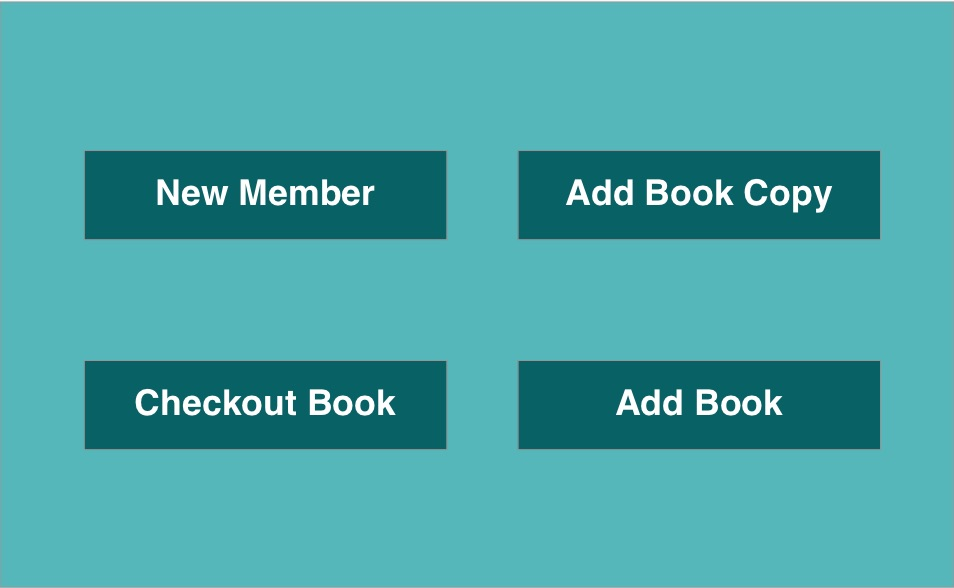
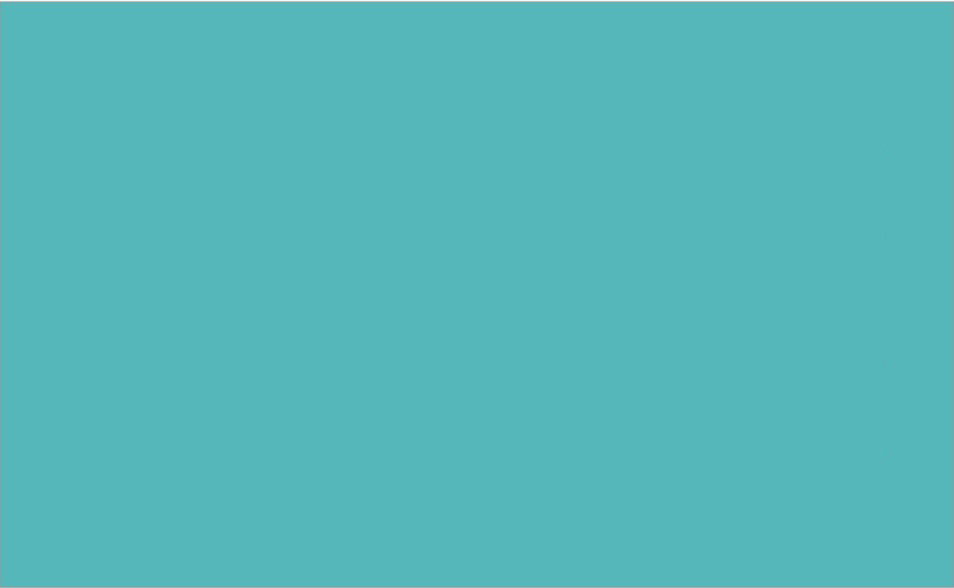
Role changes; Add member screen continue

diff --git a/src/group3/lms/ui/AddMemberScreenController.java b/src/group3/lms/ui/AddMemberScreenController.java
@@ -2,11 +2,15 @@ package group3.lms.ui;
 
 import java.util.Optional;
 
+import group3.lms.business.entity.User;
 import group3.lms.common.Common;
 import group3.lms.common.Messages;
+import group3.lms.ui.scene.SceneFactory;
 import javafx.event.ActionEvent;
 import javafx.fxml.FXML;
 import javafx.scene.control.Alert.AlertType;
+import javafx.stage.Stage;
+import javafx.scene.Node;
 import javafx.scene.control.Button;
 import javafx.scene.control.ButtonType;
 import javafx.scene.control.TextField;
@@ -16,6 +20,8 @@ public class AddMemberScreenController {
 	private Button btnNew;
 	@FXML
 	private Button btnSave;
+	@FXML
+	private Button btnCancel;
 	@FXML
 	private TextField txtMemberID;
 	@FXML
@@ -34,53 +40,37 @@ public class AddMemberScreenController {
 	private TextField txtPhone;
 
 	public void clickSave(ActionEvent event) {
-		if (txtMemberID.getText() == null || txtMemberID.getText().equals(""))
-		{
+		if (txtMemberID.getText() == null || txtMemberID.getText().equals("")) {
 			Common.ShowMessage(AlertType.INFORMATION, "Member ID is not allowed empty!");
 			txtMemberID.requestFocus();
-		}
-		else if (txtFName.getText() == null || txtFName.getText().equals(""))
-		{
+		} else if (txtFName.getText() == null || txtFName.getText().equals("")) {
 			Common.ShowMessage(AlertType.INFORMATION, "First Name is not allowed empty!");
 			txtFName.requestFocus();
-		}
-		else if (txtLName.getText() == null || txtLName.getText().equals(""))
-		{
+		} else if (txtLName.getText() == null || txtLName.getText().equals("")) {
 			Common.ShowMessage(AlertType.INFORMATION, "Last Name is not allowed empty!");
 			txtLName.requestFocus();
-		}
-		else if (txtStreet.getText() == null || txtStreet.getText().equals(""))
-		{
+		} else if (txtStreet.getText() == null || txtStreet.getText().equals("")) {
 			Common.ShowMessage(AlertType.INFORMATION, "Street is not allowed empty!");
 			txtStreet.requestFocus();
-		}
-		else if (txtCity.getText() == null || txtCity.getText().equals(""))
-		{
+		} else if (txtCity.getText() == null || txtCity.getText().equals("")) {
 			Common.ShowMessage(AlertType.INFORMATION, "City is not allowed empty!");
 			txtCity.requestFocus();
-		}
-		else if (txtState.getText() == null || txtState.getText().equals(""))
-		{
+		} else if (txtState.getText() == null || txtState.getText().equals("")) {
 			Common.ShowMessage(AlertType.INFORMATION, "State is not allowed empty!");
 			txtState.requestFocus();
-		}
-		else if (txtZip.getText() == null || txtZip.getText().equals(""))
-		{
+		} else if (txtZip.getText() == null || txtZip.getText().equals("")) {
 			Common.ShowMessage(AlertType.INFORMATION, "Zip is not allowed empty!");
 			txtZip.requestFocus();
-		}
-		else if (txtPhone.getText() == null || txtPhone.getText().equals(""))
-		{
+		} else if (txtPhone.getText() == null || txtPhone.getText().equals("")) {
 			Common.ShowMessage(AlertType.INFORMATION, "Phone is not allowed empty!");
 			txtPhone.requestFocus();
+		} else {
 		}
-		else
-		{}
 	}
 
 	public void clickNew(ActionEvent event) {
-		Optional<ButtonType> result =
-		Common.ShowMessage(AlertType.CONFIRMATION, Messages.INPUT_CREATENEWMEMBER.getValue());
+		Optional<ButtonType> result = Common.ShowMessage(AlertType.CONFIRMATION,
+				Messages.INPUT_CREATENEWMEMBER.getValue());
 		if (result.get() == ButtonType.OK) {
 			txtMemberID.clear();
 			txtFName.clear();
@@ -91,7 +81,18 @@ public class AddMemberScreenController {
 			txtZip.clear();
 			txtPhone.clear();
 			txtMemberID.requestFocus();
-		} 
+		}
 
+	}
+	
+	public void clickCancel(ActionEvent event) {
+		Stage primaryStage = (Stage) ((Node)event.getSource()).getScene().getWindow();
+		primaryStage.setTitle(Messages.TITLE_MAIN_SCREEN.getValue());
+		Object u = primaryStage.getUserData();
+		if(u != null) {
+			primaryStage.setScene(SceneFactory.createMainScreen(((User)u).getRoles()));
+		} else {
+			primaryStage.setScene(SceneFactory.createLoginScreen());
+		}
 	}
 }

diff --git a/src/group3/lms/ui/scene/SceneFactory.java b/src/group3/lms/ui/scene/SceneFactory.java
@@ -1,7 +1,9 @@
 package group3.lms.ui.scene;
 
 import java.io.IOException;
+import java.util.List;
 
+import group3.lms.business.entity.Role;
 import javafx.fxml.FXMLLoader;
 import javafx.scene.Parent;
 import javafx.scene.Scene;
@@ -25,18 +27,32 @@ public final class SceneFactory {
 		return scene;
 	}
 
-	public static final Scene createMainScreen() {
+	public static final Scene createMainScreen(List<Role> roles) {
 		Scene scene = null;
 		try {
 			Parent root = FXMLLoader.load(SceneFactory.class.getResource(MAIN_SCREEN_FILE));
 			scene = new Scene(root, 496, 295);
+			for (Role r : roles) {
+				if(!r.can(Role.ADD_BOOK)) {
+					scene.lookup("#btnAddBk").setVisible(false);
+				}
+				if(!r.can(Role.ADD_BOOKCOPY)) {
+					scene.lookup("#btnAddBkCopy").setVisible(false);
+				}
+				if(!r.can(Role.ADD_MEMBER)) {
+					scene.lookup("#btnNewMem").setVisible(false);
+				}
+				if(!r.can(Role.CHECK_OUT)) {
+					scene.lookup("#btnCheckoutBk").setVisible(false);
+				}
+			}
 		} catch (IOException e) {
 			e.printStackTrace();
 		}
 
 		return scene;
 	}
-	
+
 	public static final Scene createAddMemberScreen() {
 		Scene scene = null;
 		try {
@@ -47,5 +63,5 @@ public final class SceneFactory {
 		}
 
 		return scene;
-	} 
+	}
 }

diff --git a/src/group3/lms/ui/LoginScreenController.java b/src/group3/lms/ui/LoginScreenController.java
@@ -29,7 +29,6 @@ public class LoginScreenController {
 	
 	public void txtNameEnter(ActionEvent event) {
 		if (txtName.getText() == null || txtName.getText().trim().equals("")) {
-//			Common.ShowMessage(AlertType.ERROR, Messages.INPUT_USER_NAME.getValue());
 			Optional<ButtonType> result =
 					Common.ShowMessage(AlertType.CONFIRMATION, Messages.INPUT_USER_NAME.getValue());
 			if (result.get() == ButtonType.OK) {
@@ -55,7 +54,6 @@ public class LoginScreenController {
 			return;
 		}
 
-		// Read from the stored file
 		UserDao dao = new UserDao();
 		DataAccess da = DataAccessFactory.getDataAccess();
 		da.read(dao);
@@ -68,7 +66,8 @@ public class LoginScreenController {
 		
 		Stage primaryStage = (Stage) ((Node)event.getSource()).getScene().getWindow();
 		primaryStage.setTitle(Messages.TITLE_MAIN_SCREEN.getValue());
-		primaryStage.setScene(SceneFactory.createMainScreen());
+		primaryStage.setScene(SceneFactory.createMainScreen(u.getRoles()));
+		primaryStage.setUserData(u);
 	}
 
 }

diff --git a/src/group3/lms/business/entity/Role.java b/src/group3/lms/business/entity/Role.java
@@ -1,6 +1,7 @@
 package group3.lms.business.entity;
 
 import java.io.Serializable;
+import java.util.List;
 
 /**
  * 
@@ -13,5 +14,14 @@ public abstract class Role implements Serializable {
 	 * 
 	 */
 	private static final long serialVersionUID = 5252735951463234655L;
+	public static final String ADD_MEMBER = "addMember";
+	public static final String ADD_BOOKCOPY = "addBookCopy";
+	public static final String CHECK_OUT = "checkOut";
+	public static final String ADD_BOOK = "addBook";
 	
+	protected List<String> permissions;
+	
+	public boolean can(String permission) {
+		return permissions != null && permissions.contains(permission);
+	}
 }

diff --git a/src/group3/lms/business/entity/Administrator.java b/src/group3/lms/business/entity/Administrator.java
@@ -1,5 +1,14 @@
 package group3.lms.business.entity;
 
-public class Administrator extends Role {
+import java.util.Arrays;
 
+public class Administrator extends Role {
+	/**
+	 * 
+	 */
+	private static final long serialVersionUID = 9131249383967717279L;
+
+	public Administrator() {
+		this.permissions = Arrays.asList(ADD_MEMBER, ADD_BOOK, ADD_BOOKCOPY, CHECK_OUT);
+	}
 }

diff --git a/src/group3/lms/business/entity/Librarian.java b/src/group3/lms/business/entity/Librarian.java
@@ -1,5 +1,7 @@
 package group3.lms.business.entity;
 
+import java.util.Arrays;
+
 /**
  * 
  * @author binhtran
@@ -12,4 +14,7 @@ public class Librarian extends Role {
 	 */
 	private static final long serialVersionUID = 1645715155795193343L;
 
+	public Librarian() {
+		this.permissions = Arrays.asList(CHECK_OUT);
+	}
 }
